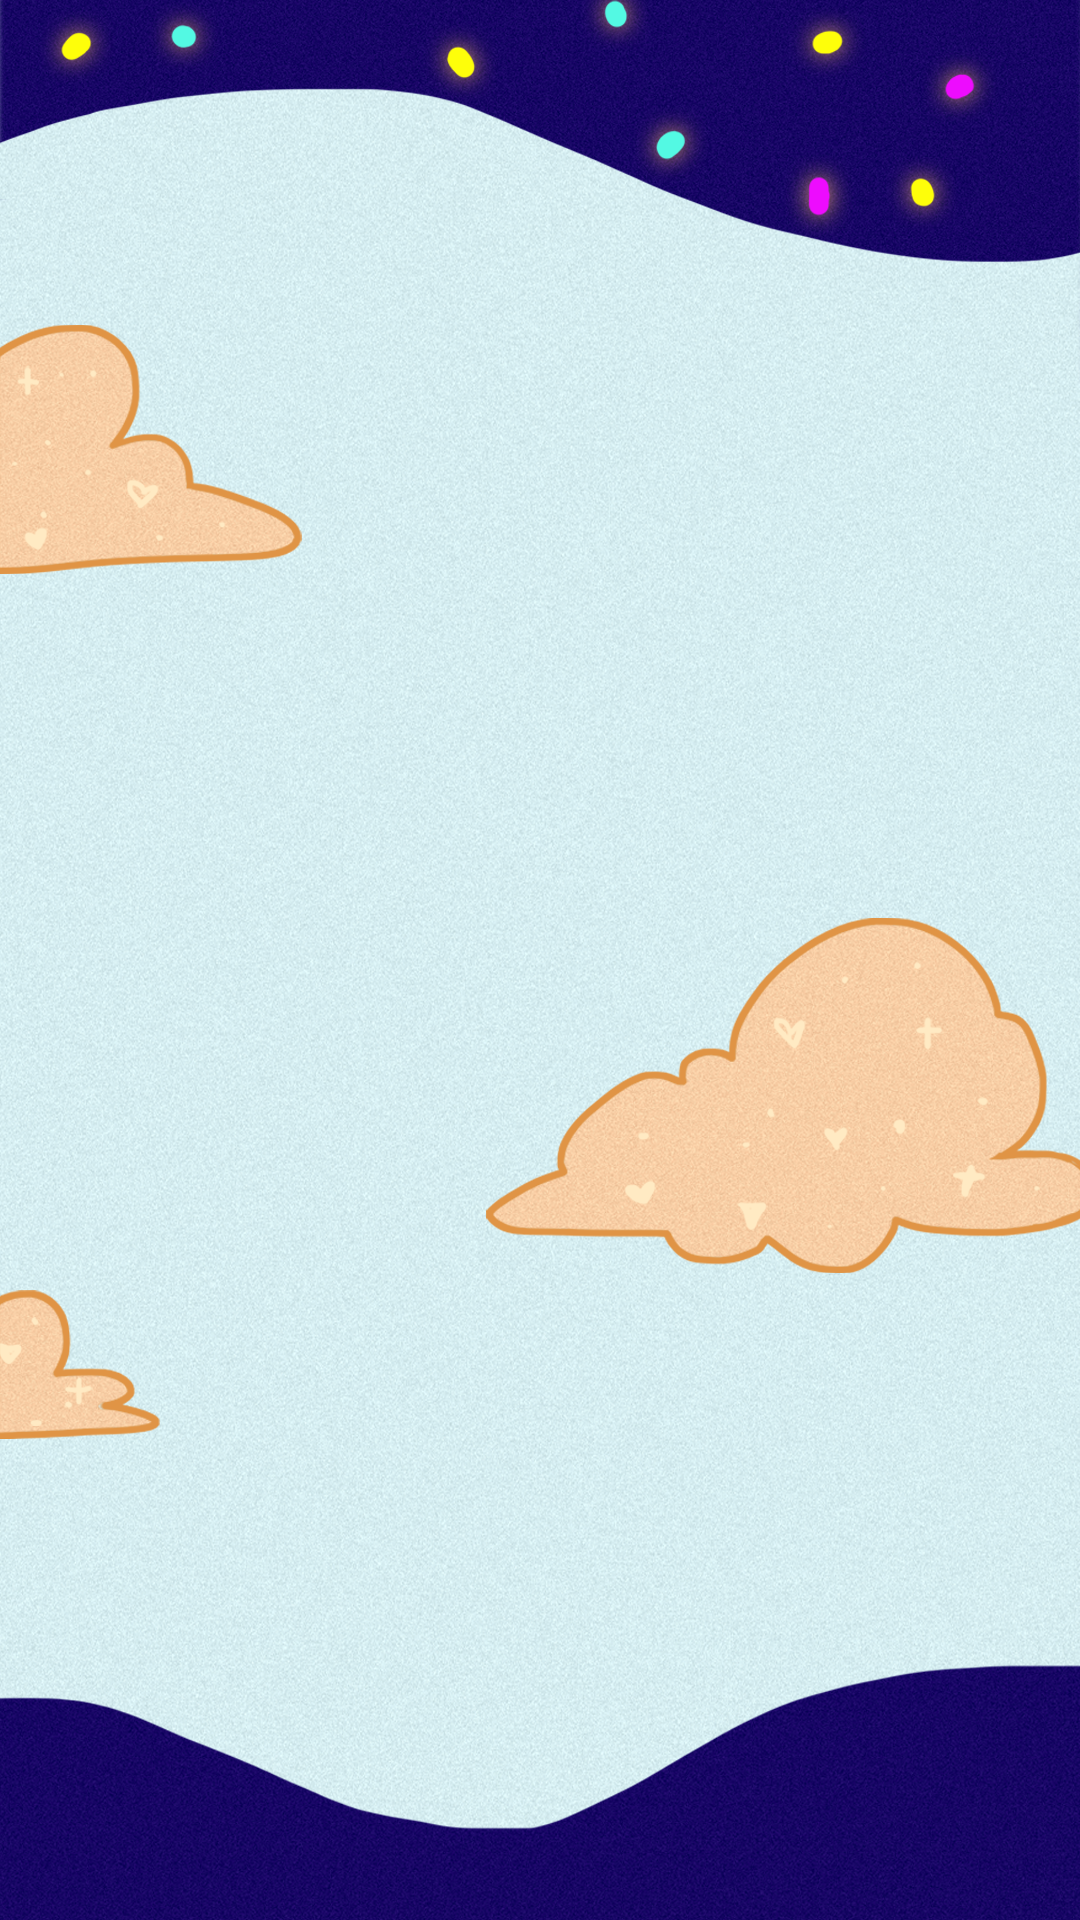
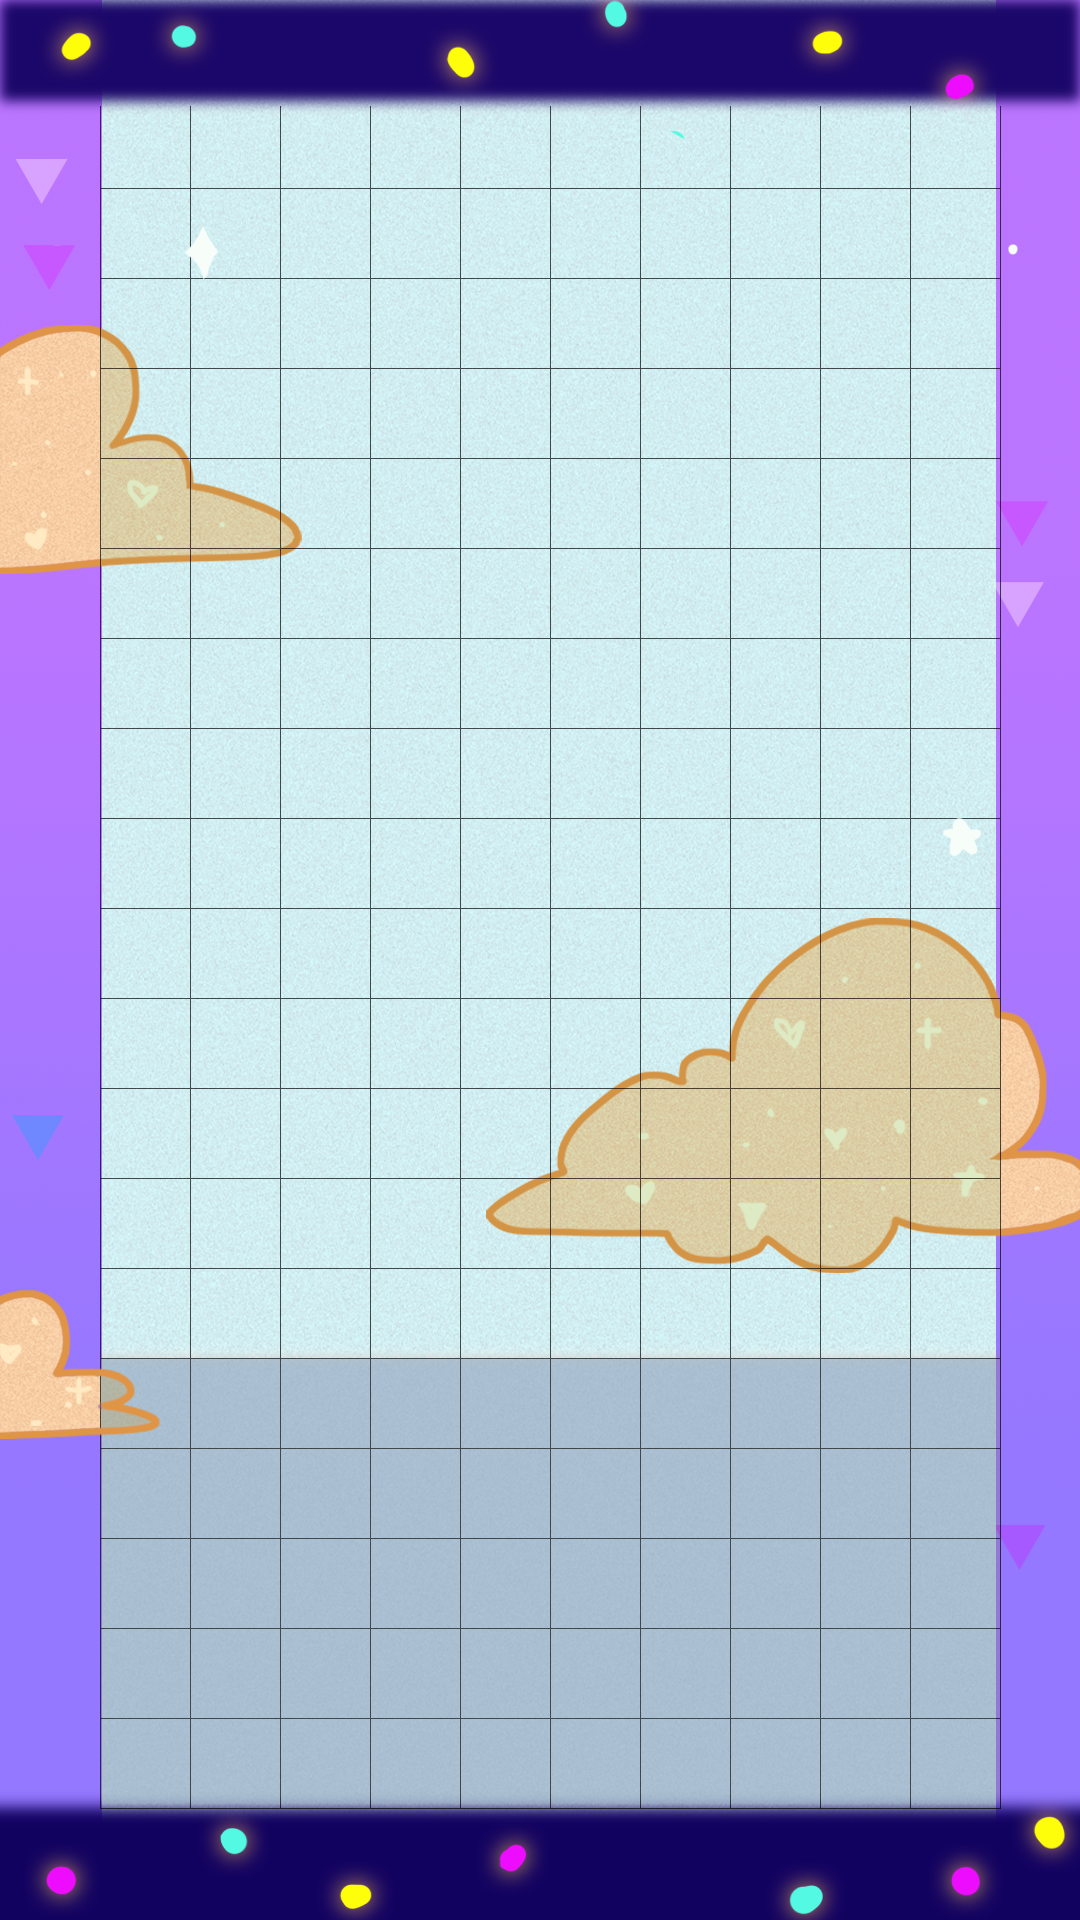
修bug

diff --git a/Assets/Scripts/GameManager.cs b/Assets/Scripts/GameManager.cs
@@ -124,7 +124,6 @@ public class GameManager : MonoBehaviour
     
     private const string mapdir = "map/";
     public GameObject background;
-    public GameObject backgrid;
     public GameObject MenuPanel;
     public GameObject LevelPanel;
     public GameObject GamePanel;
@@ -156,7 +155,6 @@ public class GameManager : MonoBehaviour
         blockSize = blockSize / piexlPerUnit;
 
         background.SetActive(false);
-        backgrid.SetActive(false);
         
         MenuPanel.SetActive(true);
         LevelPanel.SetActive(false);
@@ -293,7 +291,6 @@ public class GameManager : MonoBehaviour
     {
         AudioManager.PlayAudioEffectA(Resources.Load<AudioClip>("Audio/点击按钮"));
         background.SetActive(false);
-        backgrid.SetActive(false);
         
         MenuPanel.SetActive(false);
         LevelPanel.SetActive(true);
@@ -307,7 +304,6 @@ public class GameManager : MonoBehaviour
     {
         AudioManager.PlayAudioEffectA(Resources.Load<AudioClip>("Audio/点击按钮"));
         background.SetActive(false);
-        backgrid.SetActive(false);
         
         MenuPanel.SetActive(true);
         LevelPanel.SetActive(false);
@@ -331,11 +327,10 @@ public class GameManager : MonoBehaviour
             var text = go.transform.GetComponentInChildren<Text>();
             var button = go.transform.GetComponentInChildren<Button>();
             go.transform.localScale = Vector3.one;
-            text.text = levelDatas[i].filename;
+            text.text = levelDatas[i].filename.Substring(0, levelDatas[i].filename.Length-4);
             button.onClick.AddListener(() =>
             {
                 background.SetActive(true);
-                backgrid.SetActive(true);
                 LevelPanel.SetActive(false);
                 GamePanel.SetActive(true);
                 currentLevel = index;
@@ -415,7 +410,14 @@ public class GameManager : MonoBehaviour
             {
                 if (info.type == BLOCKTYPE.Holl)
                 {
-                    targetBlocks.AddRange(block.GetAllPoint());
+                    var points = block.GetAllPoint();
+                    foreach (var point in points)
+                    {
+                        if (!targetBlocks.Contains(point))
+                        {
+                            targetBlocks.Add(point);
+                        }
+                    }
                 }
                 otherBlocks.Add(block);
             }
